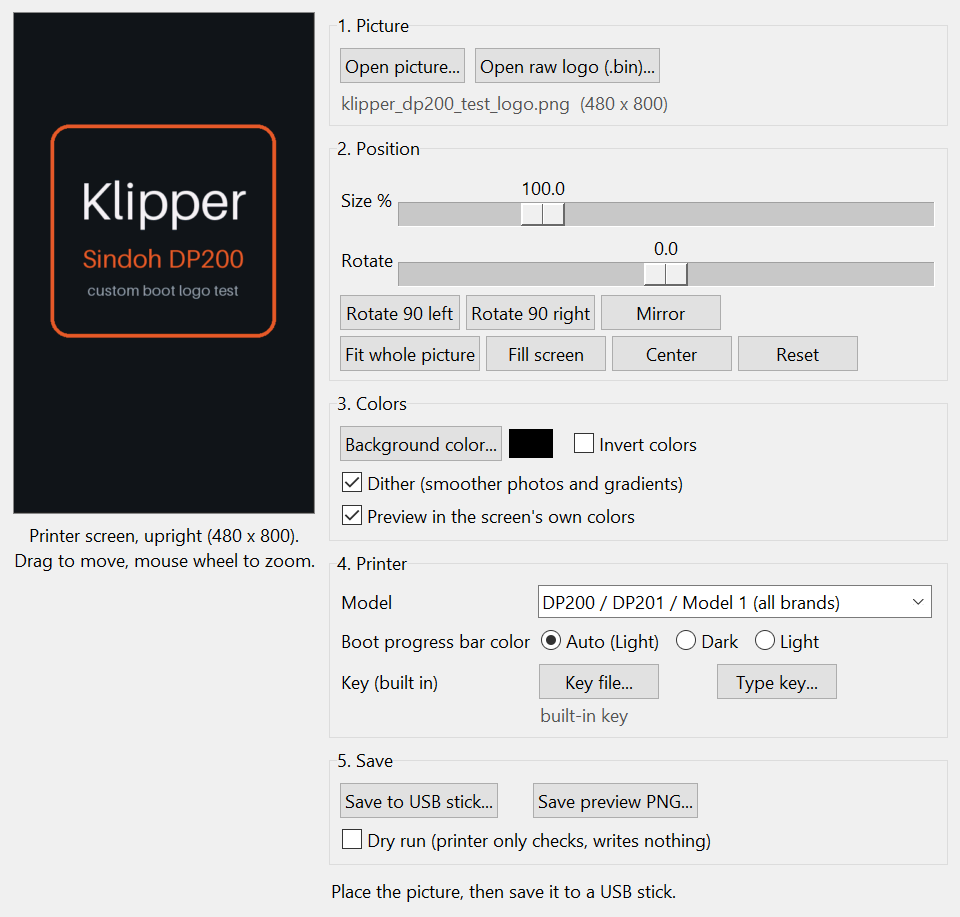
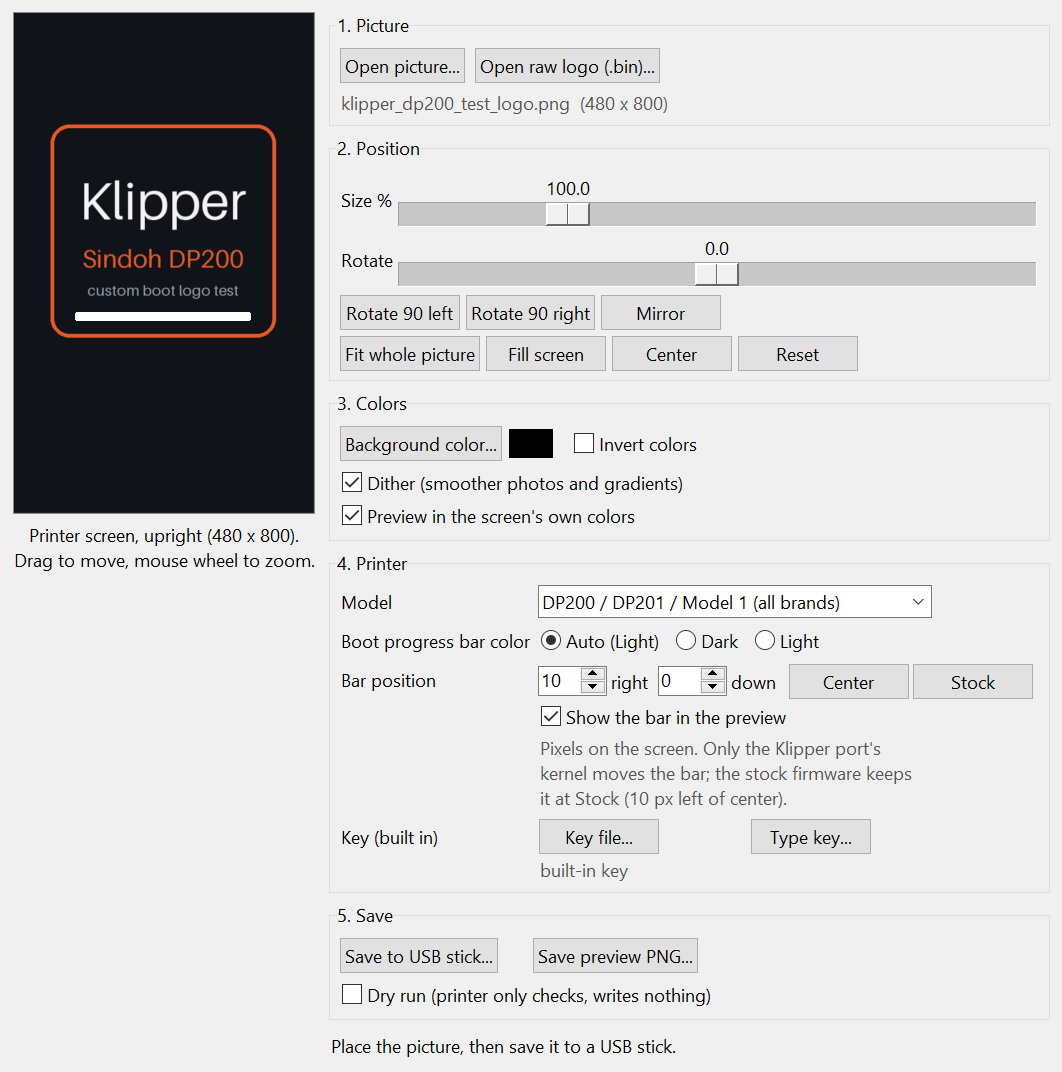
GUI: align the bar position row; README screenshot with it

diff --git a/sindoh_bootlogo_gui.py b/sindoh_bootlogo_gui.py
@@ -148,25 +148,26 @@ class App:
             rb.grid(row=0, column=i, sticky="w", padx=(0, 10))
             rb.config(command=self.redraw)
         # bar position: only the Klipper port's kernel moves the bar
+        self.shift_lbl = ttk.Label(f, text="Bar position")
+        self.shift_lbl.grid(row=2, column=0, sticky="nw", pady=(8, 0))
         self.shift_frame = s = ttk.Frame(f)
-        s.grid(row=2, column=0, columnspan=4, sticky="w", pady=(6, 0))
-        ttk.Label(s, text="Bar position").grid(row=0, column=0, sticky="w")
+        s.grid(row=2, column=1, columnspan=3, sticky="w", padx=6, pady=(6, 0))
         (x0, x1), (y0, y1) = core.BAR_SHIFT_RANGE
         for i, (t, var, lo, hi) in enumerate((("right", self.shift_x, x0, x1),
                                              ("down", self.shift_y, y0, y1))):
             ttk.Spinbox(s, from_=lo, to=hi, width=5, textvariable=var,
-                        command=self.redraw).grid(row=0, column=1 + 2 * i, padx=(8, 2))
-            ttk.Label(s, text=t).grid(row=0, column=2 + 2 * i, sticky="w")
+                        command=self.redraw).grid(row=0, column=2 * i, padx=(0 if i == 0 else 8, 2))
+            ttk.Label(s, text=t).grid(row=0, column=1 + 2 * i, sticky="w")
         ttk.Button(s, text="Center", command=lambda: self.set_shift(core.BAR_SHIFT_CENTER)).grid(
-            row=0, column=5, padx=(10, 2))
+            row=0, column=4, padx=(10, 2))
         ttk.Button(s, text="Stock", command=lambda: self.set_shift(core.BAR_SHIFT_STOCK)).grid(
-            row=0, column=6)
+            row=0, column=5)
         ttk.Checkbutton(s, text="Show the bar in the preview", variable=self.show_bar,
-                        command=self.redraw).grid(row=1, column=0, columnspan=7, sticky="w")
-        ttk.Label(s, foreground="#555", wraplength=360, justify="left", text=(
-            "Screen pixels. Used by the Klipper port's kernel; the stock firmware always "
-            "draws the bar at its own spot (Stock), 10 px left of center.")).grid(
-            row=2, column=0, columnspan=7, sticky="w")
+                        command=self.redraw).grid(row=1, column=0, columnspan=6, sticky="w")
+        ttk.Label(s, foreground="#555", wraplength=380, justify="left", text=(
+            "Pixels on the screen. Only the Klipper port's kernel moves the bar; "
+            "the stock firmware keeps it at Stock (10 px left of center).")).grid(
+            row=2, column=0, columnspan=6, sticky="w")
         for v in (self.shift_x, self.shift_y):
             v.trace_add("write", lambda *a: self.redraw())
         ttk.Label(f, text="Key (built in)").grid(row=3, column=0, sticky="w", pady=(6, 0))
@@ -371,10 +372,11 @@ class App:
         self.key_status.set("built-in key")
         old = (int(self.canvas.cget("width")), int(self.canvas.cget("height")))
         self.fit_canvas()
-        if m.get("bar_shift"):
-            self.shift_frame.grid()
-        else:
-            self.shift_frame.grid_remove()
+        for w in (self.shift_lbl, self.shift_frame):
+            if m.get("bar_shift"):
+                w.grid()
+            else:
+                w.grid_remove()
         new = (int(self.canvas.cget("width")), int(self.canvas.cget("height")))
         if self.src is not None and old != new and not self.raw_exact:
             self.fit(False)                  # other screen shape: fit the picture again
